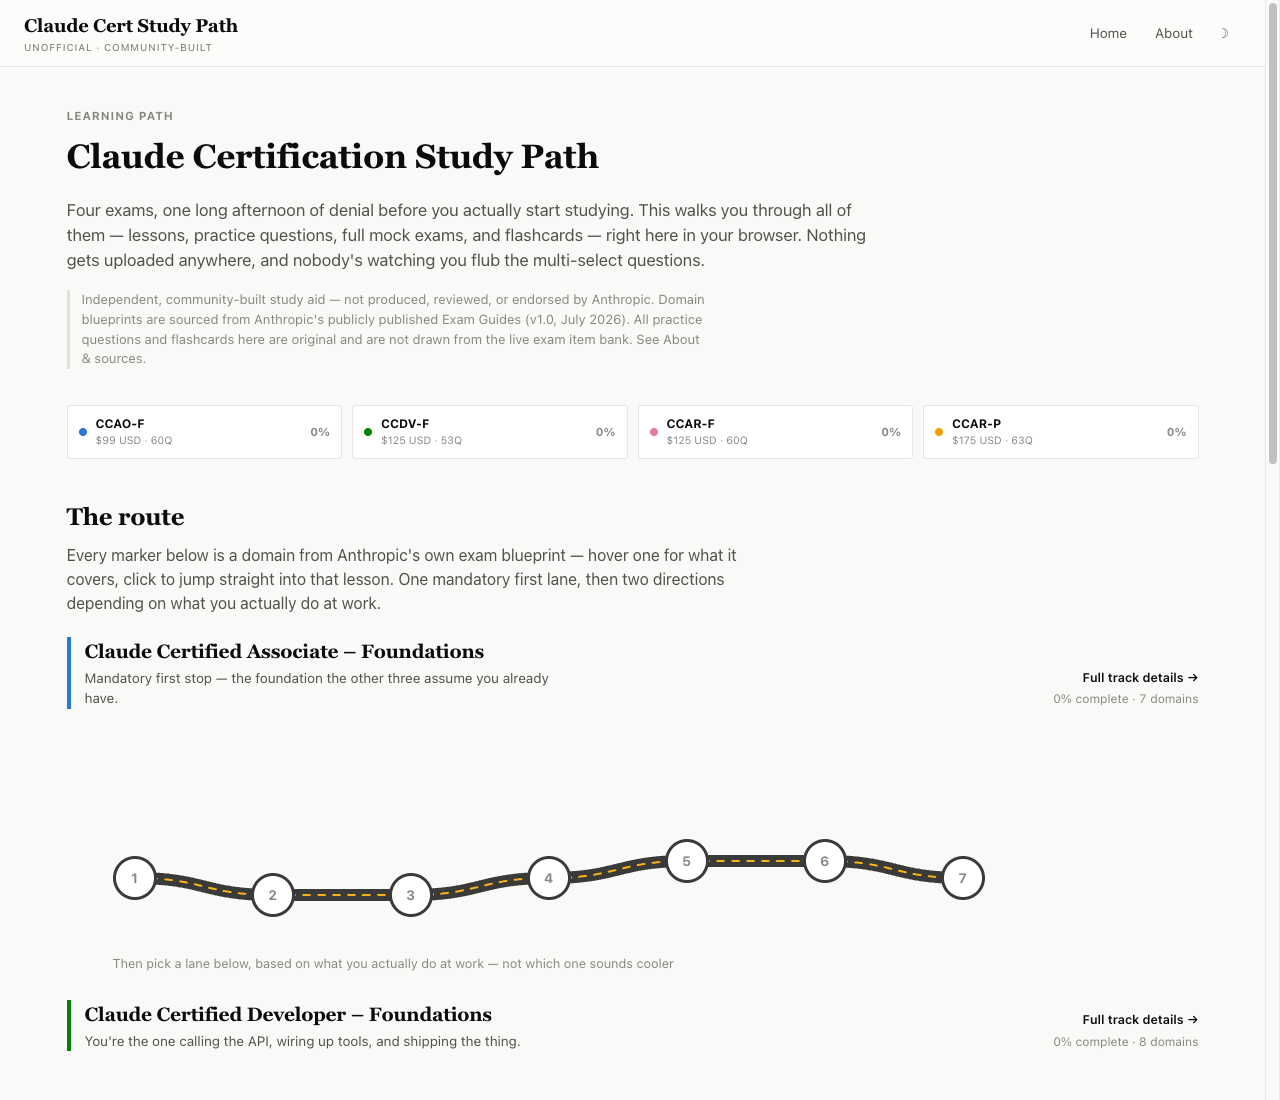
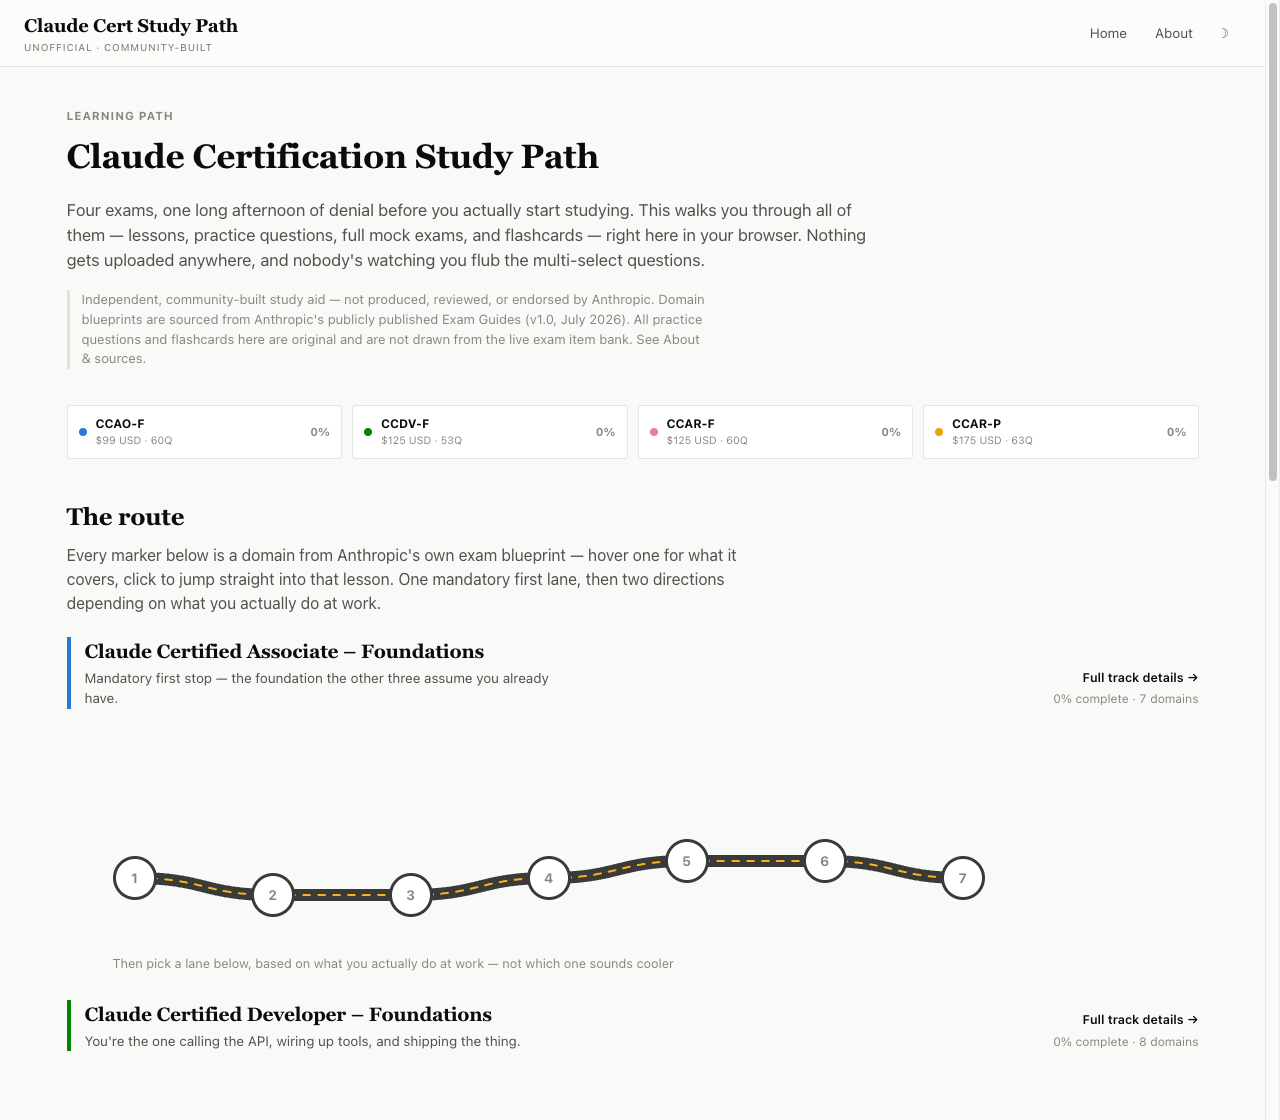
Add content validator; update README to match what the app now is
tools/validate.js checks schema and integrity across all four tracks and
exits non-zero, so it can gate CI. It exists because the expensive
failures here are the ones that still render fine: it caught a live bug
(a classify item whose answer wasn't among its own options — unanswerable,
marked every choice wrong) that `node --check` and a visual pass both
missed. It also enforces that each track's quiz bank is at least as large
as the real exam, that blueprint weights sum to ~100, that every scenario
has a reachable "good" branch, and that no stem is duplicated.

README now reflects the actual scale (142 lesson pages, 62 interactive
exercises, 403 practice questions, 371 flashcards), documents the four
exercise types and the timed-exam/review-missed flows, points contributors
at CONTENT_GUIDE.md, and states plainly why no third-party question banks
were used: they're unlicensed or proprietary, and braindumps are out on
principle.

diff --git a/tools/validate.js b/tools/validate.js
@@ -1,0 +1,175 @@
+#!/usr/bin/env node
+/* Schema + integrity validator for the content data files.
+ *
+ * Run: node tools/validate.js
+ *
+ * This exists because the expensive failures in this project are the ones that
+ * still render fine. A classify item whose `answer` isn't among its own
+ * `options` looks perfect on the page and marks every answer wrong; a `correct`
+ * index past the end of `options` makes a question unpassable; a duplicated
+ * stem quietly wastes a slot in the bank. `node --check` catches none of that.
+ * Exits non-zero on any problem so it can gate CI.
+ */
+
+"use strict";
+var path = require("path");
+
+var TRACKS = ["associate", "developer", "architect-foundations", "architect-professional"];
+var WIDGET_TYPES = ["stepThrough", "scenario", "classify", "sequence"];
+var STOP_REASONS = ["tool_use", "end_turn"];
+var MSG_KINDS = ["tool_call", "tool_result", "final"];
+var DEFAULT_CLASSIFY_OPTIONS = [["hook", ""], ["prompt", ""]];
+
+var problems = [];
+function bad(where, msg) { problems.push(where + ": " + msg); }
+
+global.window = {};
+TRACKS.forEach(function (t) {
+  require(path.join(__dirname, "..", "js", "data", t + ".js"));
+});
+
+var totals = { sections: 0, widgets: 0, checks: 0, quiz: 0, flashcards: 0, prose: 0, multi: 0, official: 0 };
+var widgetTypeCounts = {};
+
+function validateQuestion(where, q) {
+  if (!q.question) return bad(where, "missing question text");
+  if (!Array.isArray(q.options) || q.options.length < 2) return bad(where, "needs at least 2 options");
+  if (!q.explanation) bad(where, "missing explanation");
+  if (!Array.isArray(q.correct) || !q.correct.length) return bad(where, "missing correct answer");
+  q.correct.forEach(function (i) {
+    if (typeof i !== "number" || i < 0 || i >= q.options.length) bad(where, "correct index " + i + " out of range (0-" + (q.options.length - 1) + ")");
+  });
+  if (new Set(q.correct).size !== q.correct.length) bad(where, "duplicate index in correct[]");
+  if (q.type === "multi" && q.correct.length < 2) bad(where, 'type "multi" but only one correct answer');
+  if (q.type !== "multi" && q.correct.length > 1) bad(where, "single-select but multiple correct answers");
+  if (q.source && q.source !== "official") bad(where, 'source must be "official" or absent (found "' + q.source + '")');
+}
+
+function validateWidget(where, w) {
+  if (WIDGET_TYPES.indexOf(w.type) === -1) return bad(where, "unknown widget type " + w.type);
+  widgetTypeCounts[w.type] = (widgetTypeCounts[w.type] || 0) + 1;
+
+  if (w.type === "classify") {
+    if (!w.items || !w.items.length) return bad(where, "classify has no items");
+    w.items.forEach(function (item, i) {
+      var opts = (item.options || DEFAULT_CLASSIFY_OPTIONS).map(function (o) { return o[0]; });
+      if (opts.indexOf(item.answer) === -1) {
+        bad(where + " item" + i, 'answer "' + item.answer + '" is not one of its options [' + opts.join(", ") + '] — item is unanswerable');
+      }
+      if (!item.why) bad(where + " item" + i, "missing why");
+      if (!item.text) bad(where + " item" + i, "missing text");
+    });
+  }
+
+  if (w.type === "scenario") {
+    if (!w.setup) bad(where, "scenario missing setup");
+    if (!w.choices || w.choices.length < 2) return bad(where, "scenario needs at least 2 choices");
+    if (!w.choices.some(function (c) { return c.outcome === "good"; })) bad(where, "scenario has no good branch — unwinnable");
+    w.choices.forEach(function (c, i) {
+      if (!c.text) bad(where + " choice" + i, "missing text");
+      if (!c.feedback) bad(where + " choice" + i, "missing feedback");
+      if (["good", "bad"].indexOf(c.outcome) === -1) bad(where + " choice" + i, 'outcome must be "good" or "bad"');
+    });
+  }
+
+  if (w.type === "sequence") {
+    if (!w.items || w.items.length < 3) bad(where, "sequence needs at least 3 items");
+    if (!w.explanation) bad(where, "sequence missing explanation");
+    (w.items || []).forEach(function (it, i) { if (!it.text) bad(where + " item" + i, "missing text"); });
+  }
+
+  if (w.type === "stepThrough") {
+    if (!w.steps || !w.steps.length) return bad(where, "stepThrough has no steps");
+    w.steps.forEach(function (st, i) {
+      if (!st.narration) bad(where + " step" + i, "missing narration");
+      if (st.stopReason && STOP_REASONS.indexOf(st.stopReason) === -1) bad(where + " step" + i, "invalid stopReason " + st.stopReason);
+      (st.messages || []).forEach(function (m, mi) {
+        if (MSG_KINDS.indexOf(m.kind) === -1) bad(where + " step" + i + " msg" + mi, "invalid kind " + m.kind);
+        if (!m.role) bad(where + " step" + i + " msg" + mi, "missing role");
+      });
+    });
+  }
+}
+
+TRACKS.forEach(function (trackId) {
+  var cert = global.window.CERT_DATA[trackId];
+  if (!cert) return bad(trackId, "did not register into window.CERT_DATA");
+
+  ["id", "name", "code", "cost", "time", "passingScore", "validity", "tagline", "audience"].forEach(function (k) {
+    if (!cert[k]) bad(trackId, "missing cert field " + k);
+  });
+  if (typeof cert.questions !== "number") bad(trackId, "questions must be a number");
+  if (cert.id !== trackId) bad(trackId, 'id "' + cert.id + '" does not match its filename');
+  if (cert.scenarios && typeof cert.scenarios !== "string") bad(trackId, "scenarios must be a plain string");
+  if (cert.scenarios && /<[a-z]/i.test(cert.scenarios)) bad(trackId, "scenarios is inserted as text — it must not contain HTML");
+
+  var weightSum = 0;
+  var stems = {};
+  var seenDomainIds = {};
+
+  cert.domains.forEach(function (d) {
+    var dw = trackId + "/" + d.id;
+    if (seenDomainIds[d.id]) bad(dw, "duplicate domain id");
+    seenDomainIds[d.id] = 1;
+    if (!d.title) bad(dw, "missing title");
+    if (!d.summary) bad(dw, "missing summary");
+    if (typeof d.weight !== "number") bad(dw, "weight must be a number");
+    weightSum += d.weight || 0;
+    if (!d.objectives || !d.objectives.length) bad(dw, "missing objectives");
+
+    if (!d.lesson || !d.lesson.sections || !d.lesson.sections.length) return bad(dw, "no lesson sections");
+    totals.sections += d.lesson.sections.length;
+    d.lesson.sections.forEach(function (s, si) {
+      if (!s.heading) bad(dw + " section" + si, "missing heading");
+      if (!s.body) bad(dw + " section" + si, "missing body");
+      totals.prose += (s.body || "").length;
+      if (s.interactive) {
+        totals.widgets++;
+        validateWidget(dw + ' section"' + s.heading + '"', s.interactive);
+      }
+    });
+
+    totals.checks += (d.lesson.checks || []).length;
+    totals.quiz += (d.quiz || []).length;
+    totals.flashcards += (d.flashcards || []).length;
+
+    (d.quiz || []).concat(d.lesson.checks || []).forEach(function (q, qi) {
+      validateQuestion(dw + " q" + qi, q);
+      if (stems[q.question]) bad(dw + " q" + qi, "duplicate question stem within track");
+      stems[q.question] = 1;
+      if (q.type === "multi") totals.multi++;
+      if (q.source === "official") totals.official++;
+    });
+
+    (d.flashcards || []).forEach(function (f, fi) {
+      if (!f.front || !f.back) bad(dw + " flashcard" + fi, "missing front or back");
+    });
+
+    if ((d.quiz || []).length < 5) bad(dw, "quiz bank under 5 questions");
+    if (!(d.lesson.checks || []).length) bad(dw, "no checkpoint questions");
+  });
+
+  // Blueprint weights should account for the whole exam (allow rounding slack).
+  if (weightSum < 99 || weightSum > 101) bad(trackId, "domain weights sum to " + weightSum + " (expected ~100)");
+
+  // A bank barely larger than the exam gets memorised in a couple of sittings.
+  var bank = cert.domains.reduce(function (a, d) { return a + (d.quiz || []).length; }, 0);
+  if (bank < cert.questions) bad(trackId, "quiz bank (" + bank + ") is smaller than the real exam (" + cert.questions + " items)");
+});
+
+console.log("Content validation");
+console.log("  tracks       " + TRACKS.length);
+console.log("  sections     " + totals.sections);
+console.log("  interactive  " + totals.widgets + "  " + JSON.stringify(widgetTypeCounts));
+console.log("  checkpoints  " + totals.checks);
+console.log("  quiz         " + totals.quiz + "  (" + totals.multi + " multi-select, " + totals.official + " official samples)");
+console.log("  flashcards   " + totals.flashcards);
+console.log("  prose        ~" + Math.round(totals.prose / 1000) + "k chars");
+console.log("");
+
+if (problems.length) {
+  console.error("FAILED — " + problems.length + " problem(s):");
+  problems.forEach(function (p) { console.error("  ✗ " + p); });
+  process.exit(1);
+}
+console.log("✅ All checks passed.");

diff --git a/README.md b/README.md
@@ -8,23 +8,30 @@ An interactive, local-first study companion for Anthropic's four **Claude Certif
 
 ## What's inside
 
-For each of the four certifications, the app walks the exact domain blueprint Anthropic publishes in its Exam Guides:
+All four certifications, following the exact domain blueprint Anthropic publishes in its Exam Guides — including each domain's real exam weighting, which is also how depth is allocated here (a 33%-weight domain gets far more material than a 3% one).
 
-| Track | Code | Cost | Questions | Domains |
-|---|---|---|---|---|
-| Claude Certified Associate – Foundations | CCAO-F | $99 | 60 | 7 |
-| Claude Certified Developer – Foundations | CCDV-F | $125 | 53 | 8 |
-| Claude Certified Architect – Foundations | CCAR-F | $125 | 60 | 5 |
-| Claude Certified Architect – Professional | CCAR-P | $175 | 63 | 7 |
+| Track | Code | Cost | Exam | Domains | Lessons | Practice Qs | Flashcards |
+|---|---|---|---|---|---|---|---|
+| Claude Certified Associate – Foundations | CCAO-F | $99 | 60 Q / 120 min | 7 | 34 | 99 | 85 |
+| Claude Certified Developer – Foundations | CCDV-F | $125 | 53 Q / 120 min | 8 | 42 | 104 | 92 |
+| Claude Certified Architect – Foundations | CCAR-F | $125 | 60 Q / 120 min | 5 | 29 | 99 | 92 |
+| Claude Certified Architect – Professional | CCAR-P | $175 | 63 Q / 120 min | 7 | 37 | 101 | 102 |
+
+**Totals: 142 lesson pages · 62 interactive exercises · 403 practice questions · 371 flashcards.**
 
 For every domain you get:
 
-- **A lesson** — concise, practical coverage of the domain's objectives, with worked examples and a couple of embedded checkpoint questions with instant feedback.
-- **A domain quiz** — a bank of scenario-style practice questions in the same format as the real exam (single-select and multi-select, "select N" items).
-- **A full practice exam per track** — every domain's question bank shuffled together, with a domain-by-domain score breakdown at the end.
-- **Flashcards** — flip cards per domain covering terms, mechanisms, and anti-patterns from the blueprint, with a "know it / still learning" flow so mastered cards drop out of rotation.
+- **A walkthrough, one concept per page** — each with a worked example and a named failure mode, not just an assertion. Analogy callouts for the concepts that don't land cold, and side-by-side wrong/right comparisons where the difference is the lesson.
+- **Interactive exercises** — four kinds, used where they genuinely fit:
+  - *Step-through* — walk a process one turn at a time (e.g. an agentic loop, watching `stop_reason` flip and the transcript accumulate).
+  - *Scenario* — make a branching decision, then find out whether you hit the failure mode.
+  - *Classify* — sort items into buckets ("hook or prompt?", "which layer failed?") with per-item feedback.
+  - *Sequence* — put steps in the correct order (a RAG pipeline, a discovery lifecycle).
+- **Checkpoints** at the end of each walkthrough, then **a domain quiz** — scenario-framed, single- and multi-select, in the real exam's format.
+- **A timed full practice exam per track** — drawn to the real item count with the real 120-minute clock, a domain-by-domain score breakdown, and a **review of every question you missed** with what you picked and why the right answer is right.
+- **Flashcards** — with a know-it/still-learning flow so mastered cards drop out of rotation. Keyboard: <kbd>space</kbd> flip, <kbd>→</kbd> know it, <kbd>←</kbd> still learning.
 
-Progress (lessons read, best quiz scores, flashcard mastery) is saved to your browser's `localStorage`, scoped per track and per domain. Nothing is sent anywhere — there's no backend at all.
+Progress (lessons read, best quiz scores, flashcard mastery) is saved to your browser's `localStorage`, scoped per track and per domain. Nothing is sent anywhere — there's no backend at all. You can wipe it any time from the About page.
 
 ## Running it locally
 
@@ -42,22 +49,27 @@ python3 -m http.server 8000
 ## Project structure
 
 ```
-index.html              shell page — loads data + app.js
+index.html               shell page — loads data + app.js
 css/style.css            design system + layout (light/dark, theme-aware)
-js/app.js                hash router, lesson/quiz/flashcard rendering, localStorage progress
+js/app.js                hash router, lesson/quiz/flashcard/widget rendering, localStorage progress
 js/data/associate.js               content for Claude Certified Associate – Foundations
 js/data/developer.js               content for Claude Certified Developer – Foundations
 js/data/architect-foundations.js   content for Claude Certified Architect – Foundations
 js/data/architect-professional.js  content for Claude Certified Architect – Professional
+CONTENT_GUIDE.md         the authoring contract — schema, widget types, quality bar
 ```
 
-Each `js/data/*.js` file registers itself into a shared `window.CERT_DATA` object — that's the entire "database." Adding or correcting content means editing plain JS/HTML in one of those files; nothing else needs to change.
+Each `js/data/*.js` file registers itself into a shared `window.CERT_DATA` object — that's the entire "database." All content, including every interactive exercise, is plain data; the engine renders it. Adding or correcting content means editing one of those files and nothing else.
+
+**If you're contributing content, read [CONTENT_GUIDE.md](CONTENT_GUIDE.md) first** — it documents the object schema, all four interactive widget types with their data shapes, the content primitives, and the quality bar.
 
 ## Sources & disclaimer
 
 Domain blueprints, weightings, task statements, and exam mechanics (format, cost, passing score, retake policy) are sourced from **Anthropic's official Exam Guide PDFs (Version 1.0, effective July 2026)** for each of the four certifications, published via the Anthropic Partner Academy, plus Pearson VUE's public program page.
 
-All lesson content, practice questions, and flashcards in this repository are **original** — written to teach the published blueprint objectives, not drawn from or reproducing any live exam item bank. (Doing so would violate the confidentiality agreement every candidate accepts before sitting the real exam.) A small number of quiz items are tagged `source: "official"` in the data files — these are the illustrative sample questions Anthropic itself publishes in each Exam Guide for candidate preparation, reproduced with their published answer and rationale.
+All lesson content, practice questions, and flashcards in this repository are **original** — written to teach the published blueprint objectives, not drawn from or reproducing any live exam item bank. (Doing so would violate the confidentiality agreement every candidate accepts before sitting the real exam.) 21 quiz items are tagged `source: "official"` in the data files — these are the illustrative sample questions Anthropic itself publishes in each Exam Guide for candidate preparation, reproduced with their published answer and rationale.
+
+Nothing here is copied from other people's practice banks either. Most community and commercial question banks are either unlicensed (default copyright, all rights reserved) or explicitly proprietary, so they can't be lawfully redistributed under this repo's MIT license — and anything advertising *real* exam questions is a braindump, which this project won't touch on principle.
 
 This project does not register candidates, proctor exams, or issue credentials. To sit a real exam, go through the Anthropic Partner Academy and schedule via Pearson VUE.
 
@@ -65,7 +77,16 @@ If you're studying for the real thing and notice something here that's outdated 
 
 ## Contributing
 
-PRs welcome — corrections to existing content, new practice questions, additional flashcards, or accessibility/UX improvements. Keep new data changes inside `js/data/*.js` following the existing schema (read an existing file for the shape), and validate with `node --check js/data/<file>.js` before submitting.
+PRs welcome — corrections to existing content, new practice questions, additional flashcards, new interactive exercises, or accessibility/UX improvements.
+
+Read [CONTENT_GUIDE.md](CONTENT_GUIDE.md) for the schema and quality bar, keep content changes inside `js/data/*.js`, and before submitting run:
+
+```bash
+node --check js/data/<file>.js   # syntax
+node tools/validate.js           # schema + integrity across all tracks
+```
+
+The validator is worth running even for a one-line change: it catches the failure modes that are invisible on the page, like a classify item whose answer isn't among its own options (silently unanswerable), an out-of-range correct index, or a duplicated question stem.
 
 ## License
 